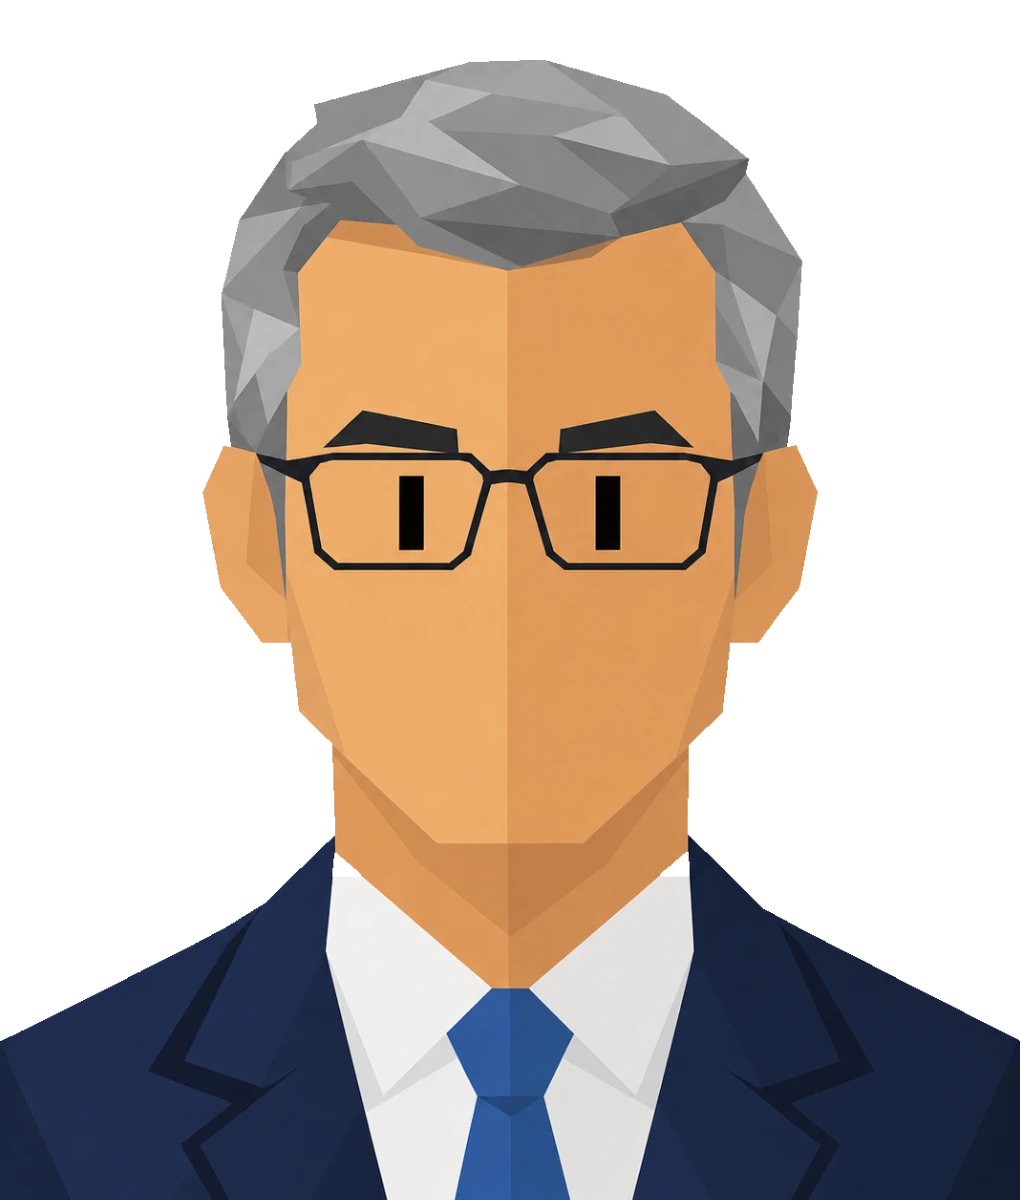
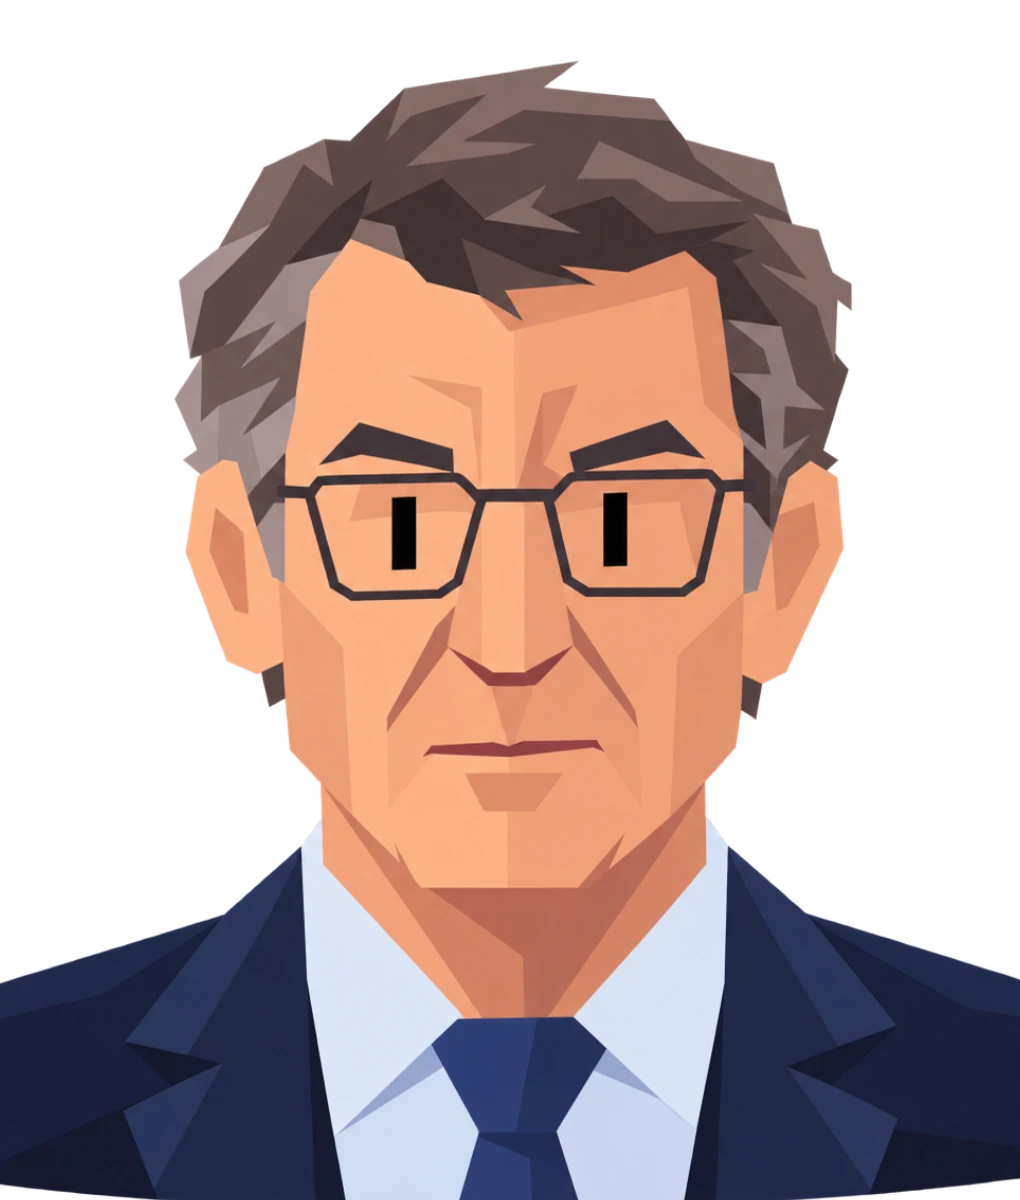
El Magistrado Afín pasa a ser El Fiscal, con retrato propio
Encaja mejor: al Fiscal General del Estado lo nombra el Gobierno, así que su
lealtad no hay que explicarla, y ya no hay dos jueces en el mismo mazo (uno
instruye contra ti, el otro dirige la acusación a tu favor) — son cargos
distintos.

Renombrados los 12 `character`, las 3 condiciones de enfado y los textos que
lo mencionaban. Dos cartas reescritas porque hablaban de cosas de juez, no de
fiscal: `afin_reparto` ("el reparto de causas es aleatorio" -> "la Fiscalía
prioriza según criterios técnicos... del todo, del todo, tampoco") y
`juez_sospecha` (el juez ahora sospecha que la Fiscalía archiva todo lo tuyo).

También el retrato nuevo de La Oposición. Los dos .png (1312x1199) pasados por
normalize + to-webp: 1,77 MB -> 0,18 MB. `magistrado.svg` borrado (sin usar).

Quedan El Juez y El Encuestador con SVG provisional.

Verificado en el navegador: los dos retratos salen, sin errores de consola.

diff --git a/src/data/cards.content.ts b/src/data/cards.content.ts
@@ -4221,19 +4221,19 @@ export const contentCards: Card[] = [
 
 
   // ============================================================================
-  // EL MAGISTRADO AFIN — el otro juez. Mientras El Juez instruye contra usted,
-  // este mueve papeles a su favor... y apunta cada favor en una libreta. Todo
-  // lo que le acepta enciende una bomba (scheduleCardId) que vuelve meses
-  // despues convertida en factura. Y si le deja tirado demasiadas veces, el
-  // enfado le cambia de bando: ver 'afin_traicion'.
-  // Su indicador de cabecera es MEDIOS, como el del Juez: los dos operan en el
-  // terreno del escandalo, uno para encenderlo y otro para apagarlo.
+  // EL FISCAL — al Fiscal General lo nombra el Gobierno, asi que juega a tu
+  // favor. Mientras El Juez instruye contra usted, el Fiscal decide a quien
+  // se acusa y a quien no... y apunta cada favor en una libreta. Todo lo que
+  // le acepta enciende una bomba que vuelve meses despues convertida en
+  // factura. Y si le deja tirado demasiadas veces cambia de bando: ver
+  // 'afin_traicion'. Su indicador es MEDIOS, como el del Juez: los dos operan
+  // en el terreno del escandalo, uno para encenderlo y otro para apagarlo.
   // ============================================================================
   {
     id: 'afin_aviso',
     phase: 2,
-    character: 'El Magistrado Afín',
-    characterImage: 'magistrado.svg',
+    character: 'El Fiscal',
+    characterImage: 'fiscal.webp',
     text: 'Le llama a las once de la noche desde un teléfono que no es el suyo. "Mañana entra una denuncia contra usted. Se la van a repartir a mi compañero, que no es de los nuestros. Yo puedo intentar algo, pero tendría que ser esta noche."',
     left: { text: 'Que siga su curso normal', effects: { medios: 1, gobierno: -1 }, moralidad: 3 },
     right: {
@@ -4249,8 +4249,8 @@ export const contentCards: Card[] = [
   {
     id: 'afin_archiva',
     phase: 2,
-    character: 'El Magistrado Afín',
-    characterImage: 'magistrado.svg',
+    character: 'El Fiscal',
+    characterImage: 'fiscal.webp',
     text: '"Lo de su consejero lo tengo encima de la mesa." Da golpecitos en una carpeta muy fina. "Puedo archivarlo por falta de indicios, que además es medio verdad. La otra mitad ya es cosa suya."',
     left: { text: 'Que lo investigue hasta el final', effects: { medios: 2, gobierno: -2 }, moralidad: 3 },
     right: {
@@ -4266,12 +4266,12 @@ export const contentCards: Card[] = [
   {
     id: 'afin_reparto',
     phase: 3,
-    character: 'El Magistrado Afín',
-    characterImage: 'magistrado.svg',
-    text: '"El reparto de causas es aleatorio, presidente." Sonríe. "Aleatorio del todo, del todo, tampoco. Digamos que hay días en los que estoy de guardia y días en los que me pongo de guardia."',
+    character: 'El Fiscal',
+    characterImage: 'fiscal.webp',
+    text: '"La Fiscalía prioriza según criterios técnicos, presidente." Sonríe. "Técnicos del todo, del todo, tampoco. Hay expedientes que corren y expedientes que, si nadie los empuja, se echan una siesta muy larga."',
     left: { text: 'Preferir no saber cómo funciona', effects: { medios: 1 }, moralidad: 1 },
     right: {
-      text: 'Preguntarle qué días está de guardia',
+      text: 'Preguntarle qué expedientes están durmiendo',
       effects: { gobierno: 1, medios: -1 },
       moralidad: -3,
       addFlags: ['magistrado_debe'],
@@ -4283,8 +4283,8 @@ export const contentCards: Card[] = [
   {
     id: 'afin_sumario',
     phase: 3,
-    character: 'El Magistrado Afín',
-    characterImage: 'magistrado.svg',
+    character: 'El Fiscal',
+    characterImage: 'fiscal.webp',
     text: 'Le enseña un sumario que no debería enseñarle. Es de una causa contra la oposición y hay dentro cosas muy feas. "Esto sale público en dos meses. O en dos días, según a quién le interese."',
     left: { text: 'No tocar ese sumario', effects: { medios: 1 }, moralidad: 3 },
     right: {
@@ -4300,8 +4300,8 @@ export const contentCards: Card[] = [
   {
     id: 'afin_cena',
     phase: 2,
-    character: 'El Magistrado Afín',
-    characterImage: 'magistrado.svg',
+    character: 'El Fiscal',
+    characterImage: 'fiscal.webp',
     text: '"Una cena entre amigos, sin agenda ni nada." El problema es que él instruye tres causas que le tocan a usted de cerca, y las cenas entre amigos también se fotografían.',
     left: { text: 'Cancelar y verse cuando no instruya nada', effects: { medios: 1, gobierno: -1 }, moralidad: 2 },
     right: { text: 'Cenar en un reservado, sin móviles', effects: { gobierno: 1, medios: -2 }, moralidad: -2 },
@@ -4310,8 +4310,8 @@ export const contentCards: Card[] = [
   {
     id: 'afin_prensa',
     phase: 3,
-    character: 'El Magistrado Afín',
-    characterImage: 'magistrado.svg',
+    character: 'El Fiscal',
+    characterImage: 'fiscal.webp',
     text: '"Mi compañero el instructor filtra a la prensa todo lo que hace." Se recuesta. "Yo también sé filtrar, presidente. Solo que yo filtro cosas que le ayudan. Dígame cuándo."',
     left: { text: 'Pedirle que no filtre nada', effects: { medios: 2, gobierno: -1 }, moralidad: 2 },
     right: { text: '"Cuando yo te avise"', effects: { medios: -1, gobierno: 1 }, moralidad: -2 },
@@ -4323,8 +4323,8 @@ export const contentCards: Card[] = [
     id: 'afin_cobro_ascenso',
     phase: 1,
     weight: 0,
-    character: 'El Magistrado Afín',
-    characterImage: 'magistrado.svg',
+    character: 'El Fiscal',
+    characterImage: 'fiscal.webp',
     text: '"¿Se acuerda de aquella noche que le llamé?" Claro que se acuerda. "Sale plaza en el tribunal de arriba. Yo no le pido nada, presidente. Solo digo que estaría bien que el nombramiento lo firme alguien que me conozca."',
     left: {
       text: 'Que el tribunal decida sin usted',
@@ -4344,8 +4344,8 @@ export const contentCards: Card[] = [
     id: 'afin_cobro_hijo',
     phase: 1,
     weight: 0,
-    character: 'El Magistrado Afín',
-    characterImage: 'magistrado.svg',
+    character: 'El Fiscal',
+    characterImage: 'fiscal.webp',
     text: 'Trae el currículum de su hijo dentro de la misma carpeta fina de hace unos meses. "Es un chico brillante. Y ya sabe que en esta vida una mano lava la otra, y las dos lavan la cara."',
     left: {
       text: 'Que se presente como todos',
@@ -4364,8 +4364,8 @@ export const contentCards: Card[] = [
     id: 'afin_cobro_sala',
     phase: 1,
     weight: 0,
-    character: 'El Magistrado Afín',
-    characterImage: 'magistrado.svg',
+    character: 'El Fiscal',
+    characterImage: 'fiscal.webp',
     text: '"Tengo un problemilla con Hacienda de hace años." Lo dice como quien comenta la lluvia. "Nada grave. Pero si a alguien se le ocurriera mirarlo con lupa ahora, sería un momento muy malo para los dos."',
     left: {
       text: 'Que Hacienda mire lo que tenga que mirar',
@@ -4404,25 +4404,25 @@ export const contentCards: Card[] = [
   {
     id: 'anger_afin',
     phase: 3,
-    character: 'El Magistrado Afín',
-    characterImage: 'magistrado.svg',
+    character: 'El Fiscal',
+    characterImage: 'fiscal.webp',
     text: 'Ya no llama de noche. Ya no trae carpetas. Cuando se cruzan en un acto le saluda con la cabeza, mirando a otro lado, como se saluda a alguien con quien uno prefiere no salir en la misma foto.',
     left: { text: 'Buscarle y arreglarlo como sea', effects: { gobierno: 1, medios: -1, caja: -1 }, moralidad: -2 },
     right: { text: 'Dejar que se enfríe', effects: { medios: 1, gobierno: -1 }, moralidad: 1 },
-    condition: (_s, _m, ctx) => (ctx.anger['El Magistrado Afín'] ?? 0) >= 3,
-    weight: (_s, _m, ctx) => (ctx.anger['El Magistrado Afín'] ?? 0) - 1,
+    condition: (_s, _m, ctx) => (ctx.anger['El Fiscal'] ?? 0) >= 3,
+    weight: (_s, _m, ctx) => (ctx.anger['El Fiscal'] ?? 0) - 1,
   },
   {
     id: 'afin_traicion',
     phase: 3,
     character: 'El Juez',
     characterImage: 'juez.svg',
-    text: 'Hay un magistrado que ha declarado como testigo esta mañana. Ha contado llamadas nocturnas, carpetas y un reparto de causas que no era tan aleatorio. Sabe muchísimo, y ahora está muy motivado.',
+    text: 'El Fiscal ha declarado como testigo esta mañana. Ha contado llamadas nocturnas, carpetas y una lista de expedientes que corrían más que otros. Sabe muchísimo, y ahora está muy motivado.',
     left: { text: 'Reconocer las llamadas', effects: { medios: 1, gobierno: -3 }, moralidad: 3 },
     right: { text: '"Ese señor miente por despecho"', effects: { medios: -3, gobierno: 1 }, moralidad: -2 },
     // Solo si se le hizo un favor Y luego se le dejó tirado lo suficiente.
     condition: (_s, _m, ctx) =>
-      (ctx.anger['El Magistrado Afín'] ?? 0) >= 4 &&
+      (ctx.anger['El Fiscal'] ?? 0) >= 4 &&
       (ctx.flags.has('magistrado_colocado') || ctx.flags.has('causa_archivada')),
     weight: 6,
   },
@@ -4431,7 +4431,7 @@ export const contentCards: Card[] = [
     phase: 3,
     character: 'El Juez',
     characterImage: 'juez.svg',
-    text: 'Hay causas suyas que llevan meses cayendo siempre en el mismo juzgado, y no es el mío. El reparto es aleatorio, dice la norma. Voy a pedir el listado de los últimos dos años.',
+    text: 'La Fiscalía lleva meses archivando todo lo que le toca a usted de cerca, siempre con el mismo argumento. Yo no puedo obligar a nadie a acusar, pero sí puedo preguntar por qué. Y voy a preguntar.',
     left: { text: 'Entregar el listado entero', effects: { medios: 1, gobierno: -1 }, moralidad: 2 },
     right: { text: 'Que el listado tarde en aparecer', effects: { medios: -2, gobierno: 1 }, moralidad: -2 },
     condition: (_s, _m, ctx) =>
@@ -4547,8 +4547,8 @@ export const contentCards: Card[] = [
     phase: 1,
     weight: 0,
     rescatePara: 'evento',
-    character: 'El Magistrado Afín',
-    characterImage: 'magistrado.svg',
+    character: 'El Fiscal',
+    characterImage: 'fiscal.webp',
     text: 'Le llama otra vez de noche, otra vez desde un teléfono que no es el suyo. "Lo que le viene encima puedo pararlo veinticuatro horas. No más. En veinticuatro horas usted puede hacer muchas cosas, presidente. Yo, después de esto, ya no podré hacer ninguna."',
     left: {
       text: 'Aceptar las veinticuatro horas',
@@ -4651,8 +4651,8 @@ export const contentCards: Card[] = [
     id: 'rescate_cobro_magistrado',
     phase: 1,
     weight: 0,
-    character: 'El Magistrado Afín',
-    characterImage: 'magistrado.svg',
+    character: 'El Fiscal',
+    characterImage: 'fiscal.webp',
     text: 'Aquellas veinticuatro horas le costaron el prestigio y una información reservada. Ahora está fuera del escalafón y muy tranquilo. "No vengo a pedirle nada, presidente. Vengo a recordarle que sigo teniendo la copia de todo."',
     left: {
       text: 'Contarlo usted antes que él',
